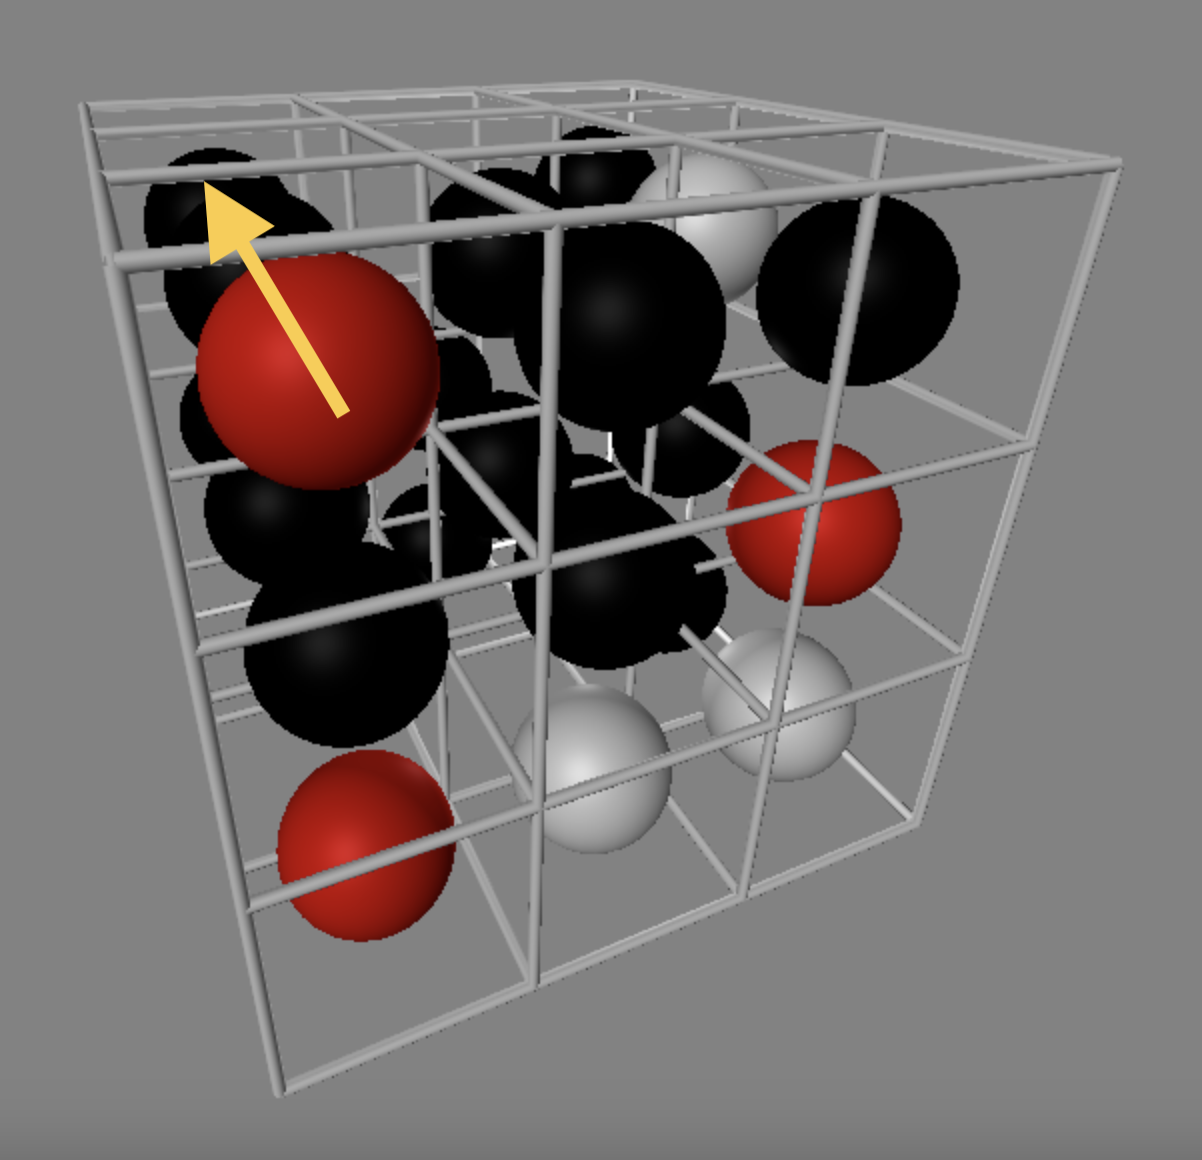
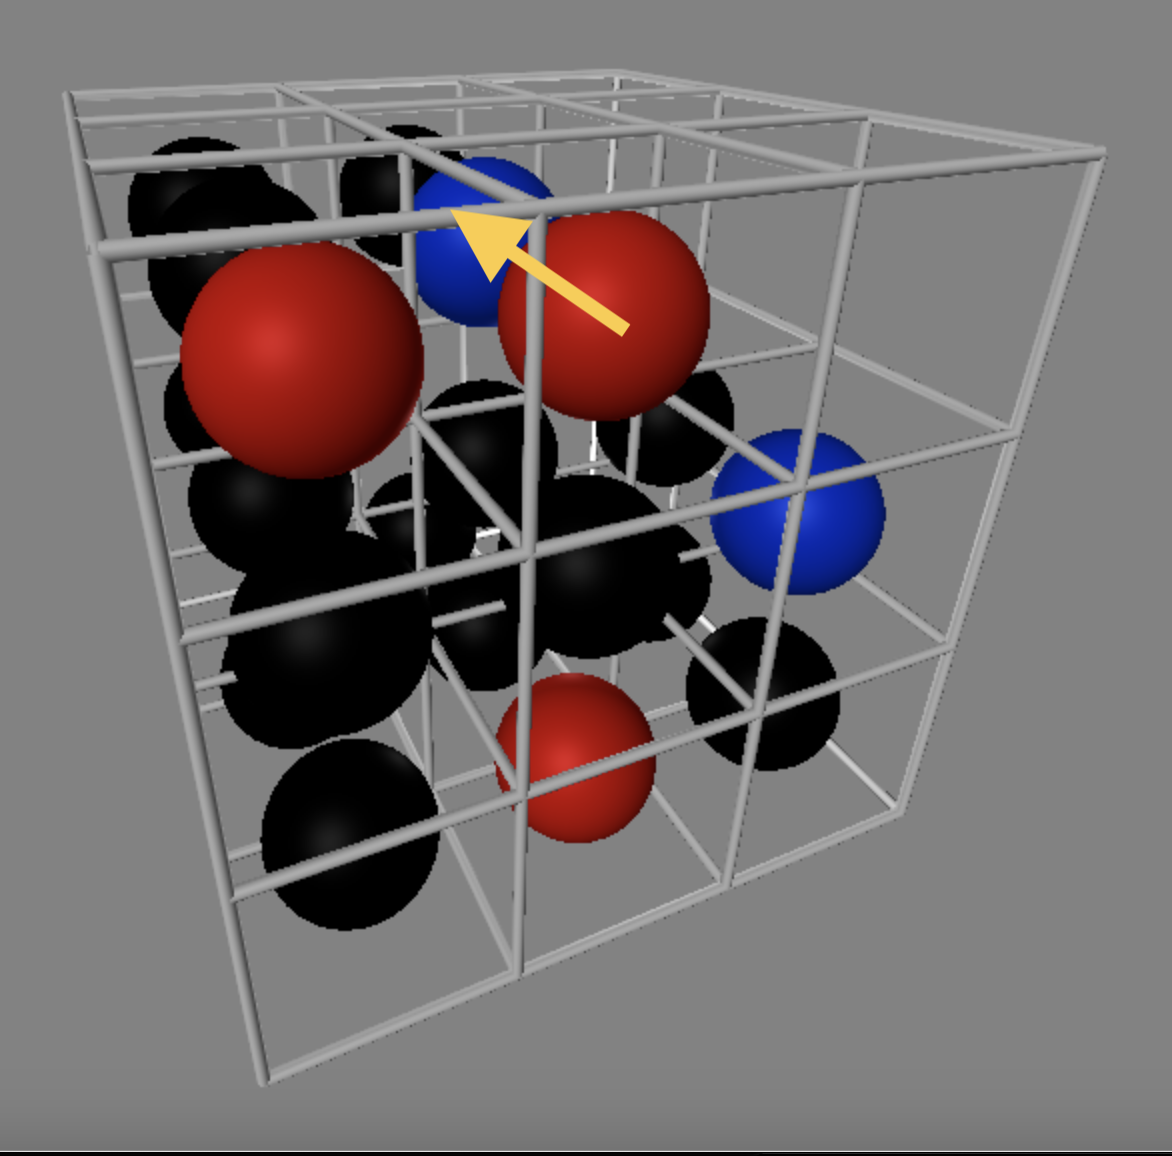
update guide photos

diff --git a/tictactoefrontend/templates/player_guide.html b/tictactoefrontend/templates/player_guide.html
@@ -52,7 +52,7 @@
     </p>
     <div class="image-pair">
         <img src="{% static 'images/red_wins.png' %}" alt="Red Wins">
-        <img src="{% static 'images/white_wins.png' %}" alt="Blue Wins">
+        <img src="{% static 'images/blue_wins.png' %}" alt="Blue Wins">
     </div>
     <p>
         <strong>The Twist:</strong> You can either place a new piece in an empty square, or push existing pieces in your chosen direction, provided the push doesn't force pieces out of the cube. You cannot place a piece in the middle directly, and must start from one of the outer squares instead. Rotate the board using your arrow keys or W, A, S, D to face any direction. Then, place your piece on the side facing you, which pushes any piece in that square towards the back of the board.
